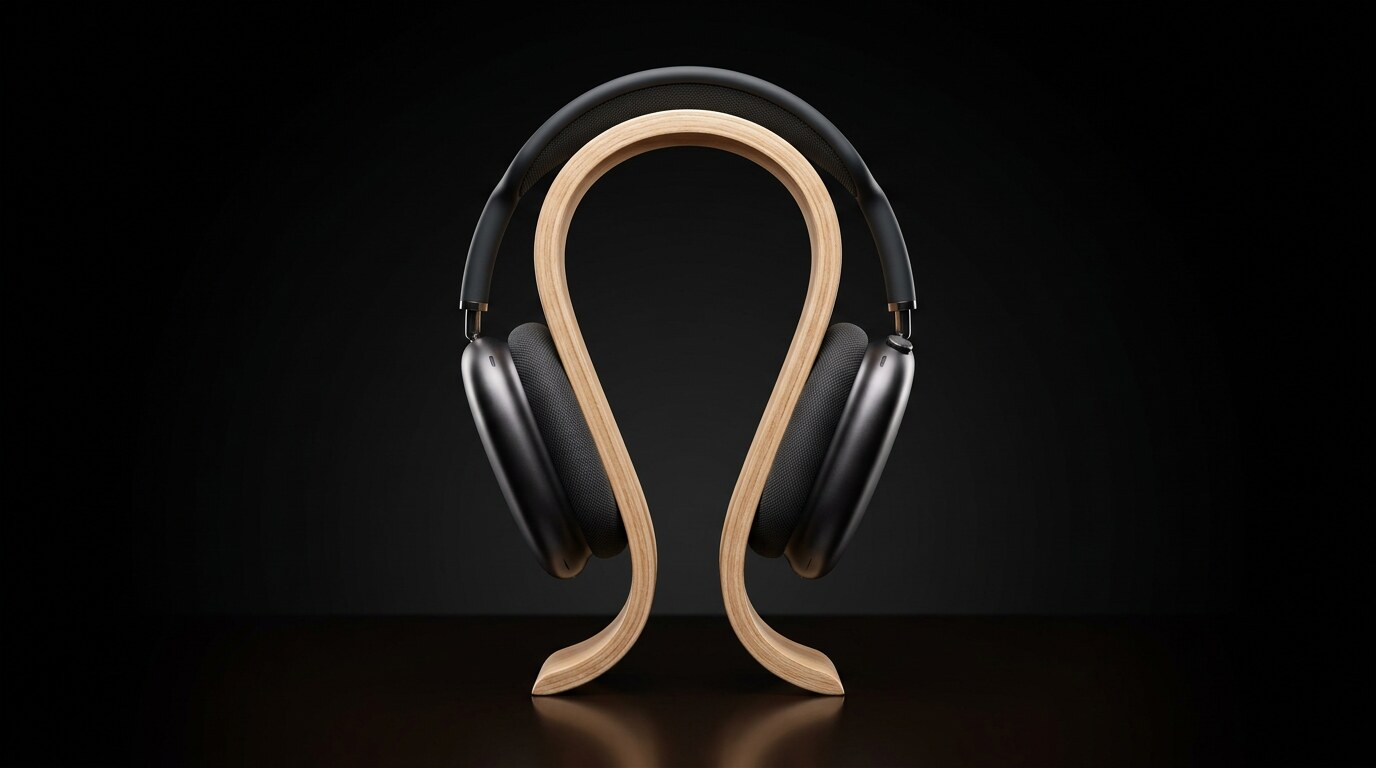
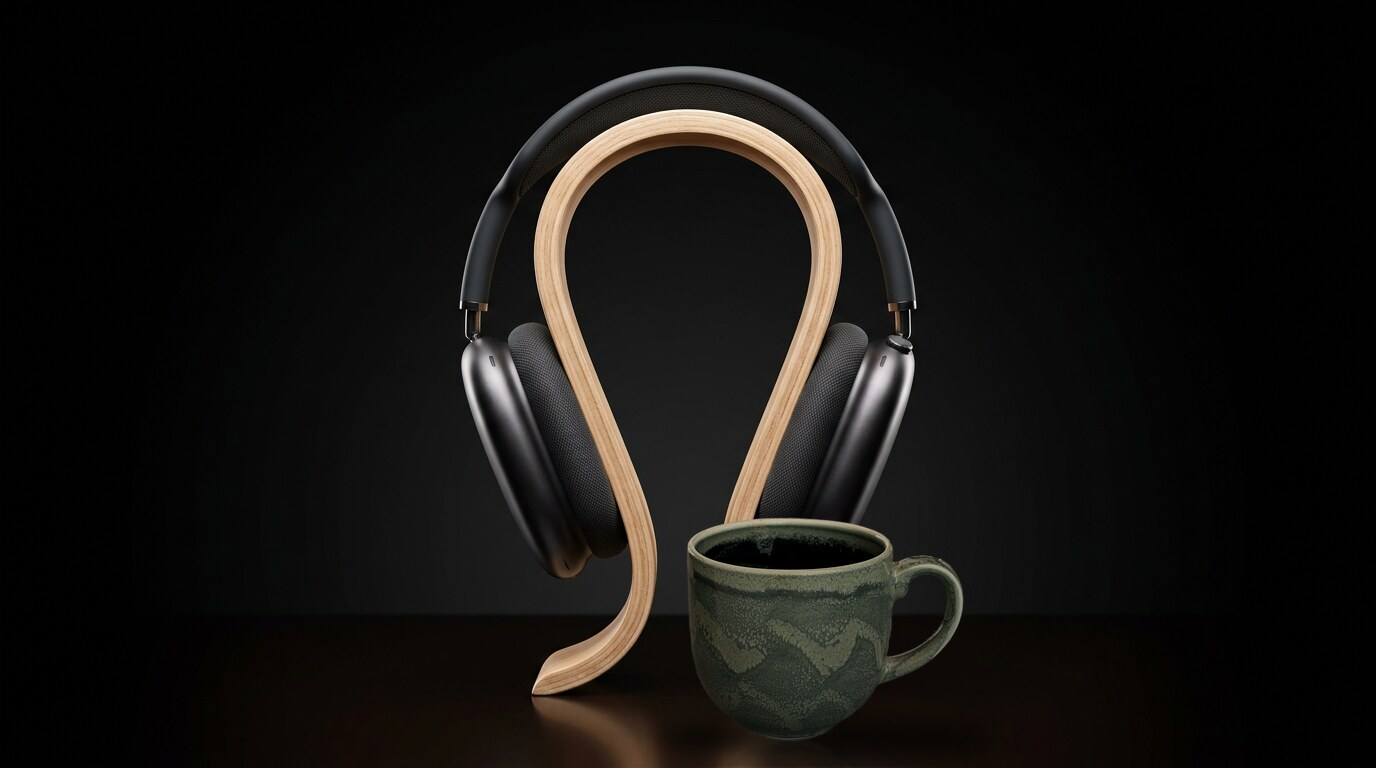
Stage: letters slam in; the mug on the table; three lines of copy tightened
The headline no longer passes through the system face. Each line lands
the way a Messages slam does: every letter arrives from more than twice
its size, blurred, and snaps to place, left to right; when the last
letter of a line lands the stage shakes and the type punches once. The
pinned product zooms from a lower pivot so its base stays in frame.

A mug sits in front of the stand, right of centre: Ole's own, cut out
of a photograph with a matting model, darkened and warmed to the
studio light, with a contact shadow and its reflection on the table.
The share image, rendered from the same photograph, carries it too.

Three comments on the artifact: the clause "and the desk was where the
boom happened" is cut, the vinyl goes out with the trash rather than
the recycling, and the frog line reads "Nobody noticed. Boiling the
frog."

Claude-Session: https://claude.ai/code/session_01NiVUN2xRcw2KYpxBRwL6Mm

Changed region(s): [[0.5, 0.6562, 0.7188, 1.0]]

diff --git a/docs/index.html b/docs/index.html
@@ -111,24 +111,26 @@
   /* the stage: the product pins for a few screen heights while the headline arrives over it */
   .stage { height: 260vh; margin-top: 28px; --p: 1; --pe: 1; }
   .pin { position: sticky; top: 52px; height: calc(100vh - 52px); height: calc(100dvh - 52px); overflow: hidden; background: #000; }
-  .product-wrap { position: absolute; inset: 0; transform-origin: 50% 62%; transform: translateY(calc(var(--pe) * -3.5%)) scale(calc(1 + var(--pe) * .16)); will-change: transform; }
+  .product-wrap { position: absolute; inset: 0; transform-origin: 50% 78%; transform: translateY(calc(var(--pe) * -1.5%)) scale(calc(1 + var(--pe) * .14)); }
   .product { position: absolute; inset: 0; width: 100%; height: 100%; object-fit: cover; object-position: 50% 60%; transform-origin: 50% 70%; }
   .js .product { opacity: 0; transform: scale(.82); animation: emerge 2.2s cubic-bezier(.16, .8, .24, 1) .5s forwards; }
   @keyframes emerge { 0% { opacity: 0; transform: scale(.82); filter: brightness(0); } 45% { opacity: 1; } 100% { opacity: 1; transform: none; filter: brightness(1); } }
   .shade { position: absolute; inset: 0; background: #000; opacity: calc(var(--p) * .42); pointer-events: none; }
   .lines { position: absolute; inset: 0; display: flex; flex-direction: column; justify-content: center; align-items: center; gap: .06em; padding: 0 22px; text-align: center; margin: 0; }
-  .line {
-    display: block; font-size: clamp(40px, 9.5vw, 136px); line-height: 1; filter: drop-shadow(0 10px 40px rgba(0,0,0,.6));
-    --t: clamp(0, (var(--p) - (.12 + var(--i) * .38)) / .16, 1);
-    opacity: var(--t); transform: translateY(calc((1 - var(--t)) * 36px)) scale(calc(.94 + var(--t) * .06));
-  }
-  /* each character: the system face underneath, the boomer face over it, swapped by scroll with a per-character start (--b) */
+  .line { display: block; font-size: clamp(40px, 9.5vw, 136px); line-height: 1; filter: drop-shadow(0 10px 40px rgba(0,0,0,.6)); }
+  /* slam: each letter lands from large to small, slightly blurred on the way, with a per-letter start (--b) */
   .word { display: inline-block; white-space: nowrap; }
-  .ch { position: relative; display: inline-block; --m: clamp(0, (var(--p) - var(--b)) / .06, 1); }
-  .ch > span { display: inline-block; background: linear-gradient(180deg, #fafafa 0%, #d6d6db 32%, #8e8e93 58%, #c7c7cc 78%, #f0f0f2 100%); -webkit-background-clip: text; background-clip: text; color: transparent; }
-  .ch .boo { opacity: var(--m); transform: scale(calc(.86 + var(--m) * .14)); }
-  .ch .sys { position: absolute; left: 50%; top: 50%; transform: translate(-50%, -50%) scale(calc(1 + var(--m) * .1)); font-family: var(--font); font-weight: 700; letter-spacing: -.03em; text-transform: none; opacity: calc(1 - var(--m)); }
+  .ch { display: inline-block; --m: clamp(0, (var(--p) - var(--b)) / .05, 1); }
+  .ch .boo {
+    display: inline-block; background: linear-gradient(180deg, #fafafa 0%, #d6d6db 32%, #8e8e93 58%, #c7c7cc 78%, #f0f0f2 100%); -webkit-background-clip: text; background-clip: text; color: transparent;
+    opacity: var(--m); transform: scale(calc(1 + (1 - var(--m)) * 2.2)); filter: blur(calc((1 - var(--m)) * 6px));
+  }
   .no-split .line { background: linear-gradient(180deg, #fafafa 0%, #d6d6db 32%, #8e8e93 58%, #c7c7cc 78%, #f0f0f2 100%); -webkit-background-clip: text; background-clip: text; color: transparent; }
+  .pin > .product-wrap, .pin > .lines { will-change: transform; }
+  .pin.boom .product-wrap { animation: shake .42s cubic-bezier(.2, .7, .2, 1) both; }
+  .pin.boom .lines { animation: punch .42s cubic-bezier(.2, .7, .2, 1) both; }
+  @keyframes shake { 0% { translate: 0 0; } 15% { translate: -6px 4px; } 35% { translate: 5px -4px; } 55% { translate: -3px 2px; } 75% { translate: 2px -1px; } 100% { translate: 0 0; } }
+  @keyframes punch { 0% { scale: 1.06; } 40% { scale: .985; } 100% { scale: 1; } }
   @media (max-width: 734px) { .stage { height: 200vh; } .line { font-size: clamp(36px, 11vw, 64px); } }
 
   /* story */
@@ -286,7 +288,8 @@
     .stage { height: auto; }
     .pin { position: static; height: auto; aspect-ratio: 16 / 9; }
     .line { opacity: 1; transform: none; }
-    .ch .boo { opacity: 1; transform: none; } .ch .sys { opacity: 0; }
+    .ch .boo { opacity: 1; transform: none; filter: none; }
+    .pin.boom .product-wrap, .pin.boom .lines { animation: none; }
     .product-wrap { transform: none; }
     .card img, .localnav { transition: none; }
   }
@@ -335,8 +338,8 @@
   <div class="wrap story">
     <p class="eyebrow rv">Do you remember the time</p>
     <h2 class="headline xl rv" style="--d:.08s">When the office was the party.</h2>
-    <p class="copy" data-story>You lived under your desk. It was the dot-com boom, and the desk was where the boom happened. You smoked indoors. You ripped your vinyl to 128 kbit/s and put the vinyl out with the recycling.</p>
-    <p class="copy" data-story>Everyone was noisy. Everyone listened to the same thing, because everyone had to. Noise cancelling meant someone going <em>schhh</em>. And every week somebody nudged the volume knob one notch, and nobody noticed, and the frog boiled.</p>
+    <p class="copy" data-story>You lived under your desk. It was the dot-com boom. You smoked indoors. You ripped your vinyl to 128 kbit/s and put the vinyl out with the trash.</p>
+    <p class="copy" data-story>Everyone was noisy. Everyone listened to the same thing, because everyone had to. Noise cancelling meant someone going <em>schhh</em>. And every week somebody nudged the volume knob one notch. Nobody noticed. Boiling the frog.</p>
     <p class="copy" data-story><strong>Well. No?</strong></p>
     <p class="copy" data-story>Now you can at least listen together again. And embarrass yourself with your low-BPM downtempo<sup>2</sup> in front of the whole floor, at a volume that bothers no one.</p>
   </div>
@@ -634,7 +637,7 @@ boomerblaster url</pre>
   var linesEl = document.getElementById("lines");
   if (linesEl) {
     // Split each line into characters, each carrying the scroll position at which it flips face.
-    var morphStart = [0.34, 0.70], morphSpan = 0.24;
+    var morphStart = [0.22, 0.58], morphSpan = 0.14;
     linesEl.querySelectorAll(".line").forEach(function (line, li) {
       var chars = Array.from(line.textContent), n = chars.length;
       line.textContent = "";
@@ -646,8 +649,7 @@ boomerblaster url</pre>
         cell.className = "ch";
         cell.style.setProperty("--b", (morphStart[li] + (ci / n) * morphSpan).toFixed(3));
         var boo = document.createElement("span"); boo.className = "boo"; boo.textContent = ch;
-        var sys = document.createElement("span"); sys.className = "sys"; sys.textContent = ch; sys.setAttribute("aria-hidden", "true");
-        cell.appendChild(boo); cell.appendChild(sys);
+        cell.appendChild(boo);
         word.appendChild(cell);
       });
     });
@@ -655,6 +657,7 @@ boomerblaster url</pre>
   if (stage && !reduce) {
     stage.style.setProperty("--p", "0");
     stage.style.setProperty("--pe", "0");
+    var boomed = [false, false];
     var ticking = false;
     function stageProgress() {
       ticking = false;
@@ -664,6 +667,13 @@ boomerblaster url</pre>
       var pe = p < .5 ? 4 * p * p * p : 1 - Math.pow(-2 * p + 2, 3) / 2;  // ease in and out
       stage.style.setProperty("--p", p.toFixed(4));
       stage.style.setProperty("--pe", pe.toFixed(4));
+      // a boom when a line has fully landed, once per crossing
+      var pin = stage.querySelector(".pin");
+      [0.22 + 0.14 + 0.05, 0.58 + 0.14 + 0.05].forEach(function (landAt, li) {
+        var landed = p >= landAt;
+        if (landed && !boomed[li]) { boomed[li] = true; pin.classList.remove("boom"); void pin.offsetWidth; pin.classList.add("boom"); }
+        if (!landed) boomed[li] = false;
+      });
     }
     window.addEventListener("scroll", function () { if (!ticking) { ticking = true; requestAnimationFrame(stageProgress); } }, { passive: true });
     window.addEventListener("resize", stageProgress);
